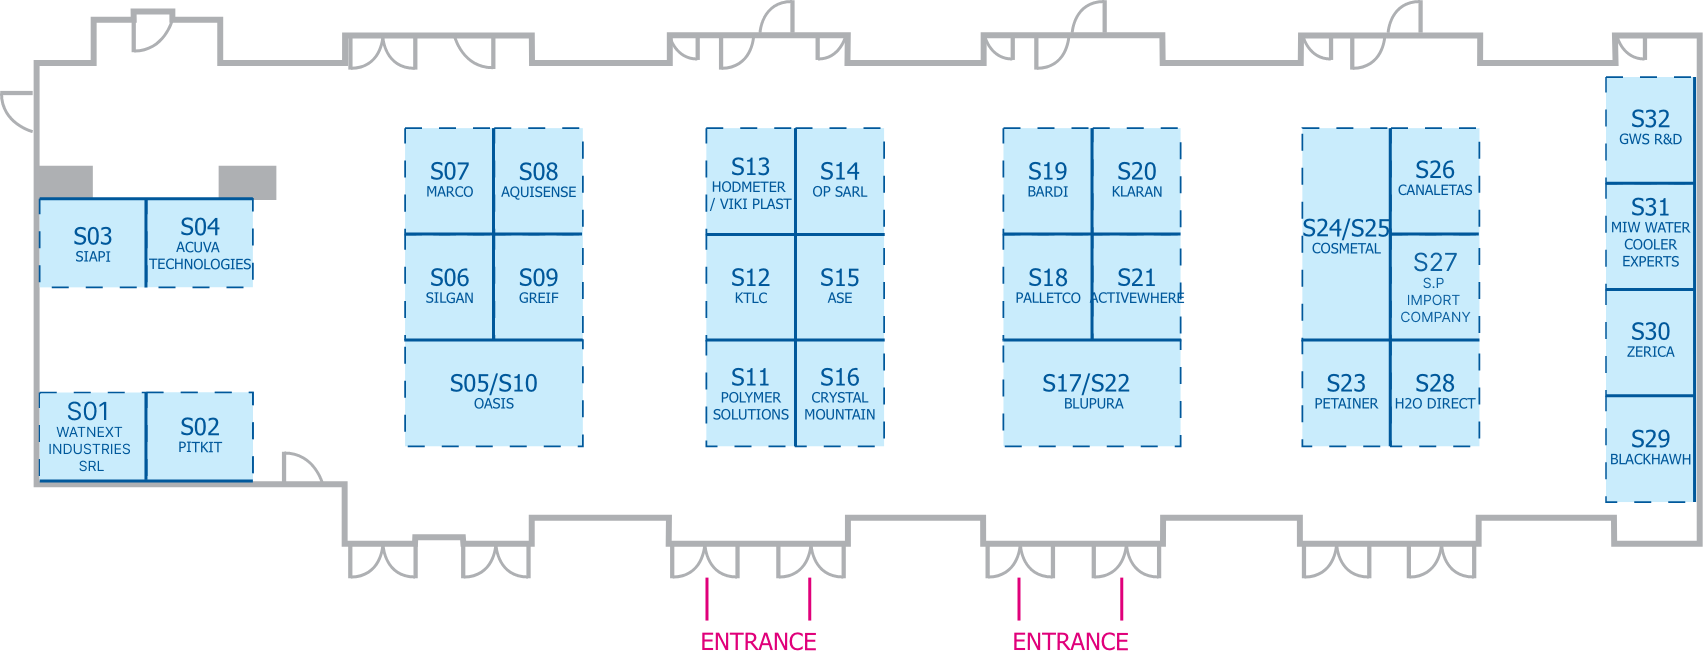
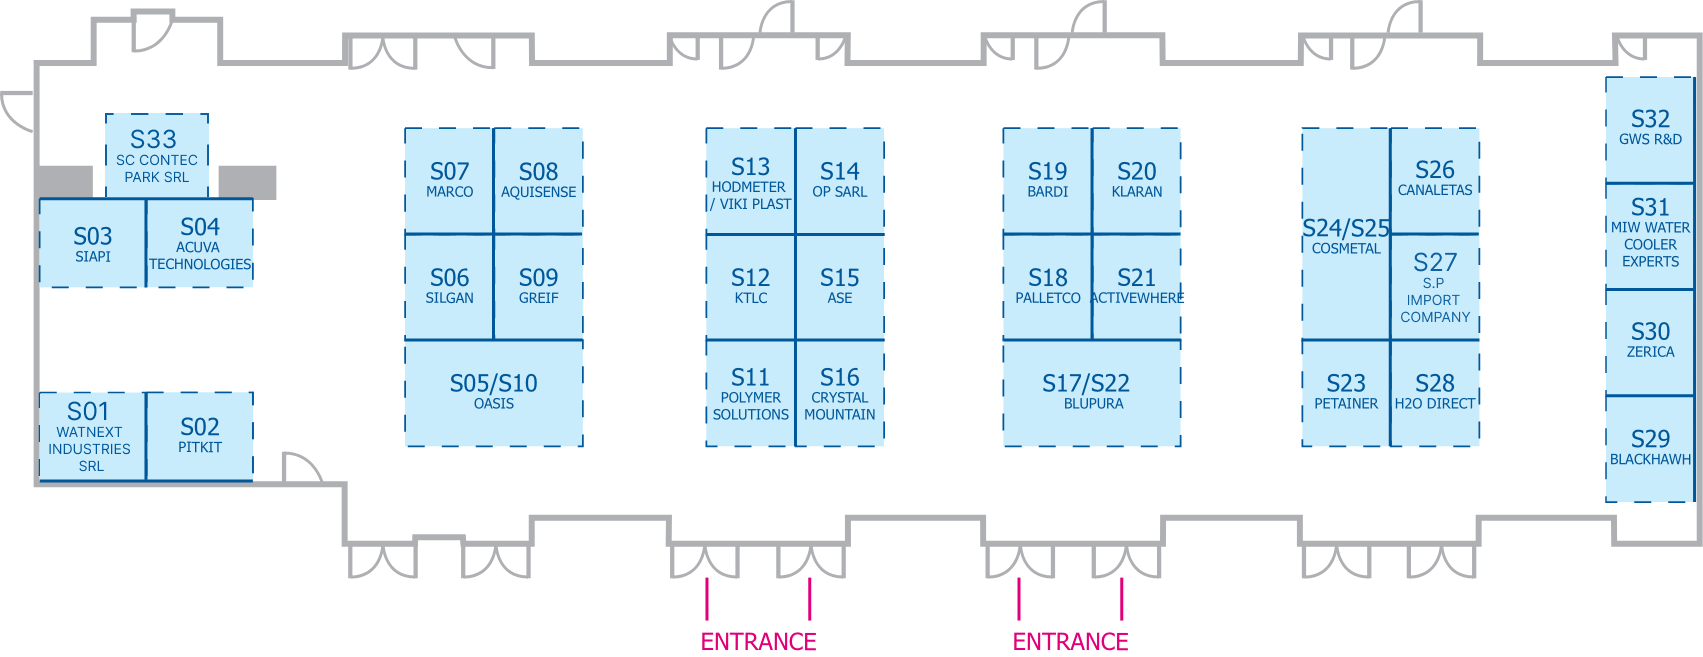
new floor plan

Changed region(s): [[0.0622, 0.1522, 0.1245, 0.3044]]

diff --git a/src/templates/trade-fair.js b/src/templates/trade-fair.js
@@ -1,26 +1,10 @@
 import React from "react";
 import PropTypes from "prop-types";
-import { Link, graphql } from "gatsby";
+import { graphql } from "gatsby";
 import Layout from "../components/Layout";
 import PageTitle from "../components/PageTitle";
-import PreviewCompatibleImage from "../components/PreviewCompatibleImage";
 import PageSubtitle from "../components/PageSubtitle";
 import { StaticImage } from "gatsby-plugin-image";
-
-const floor_plan =
-  [
-    {"nr":21 ,"place" : "S21", "name": "ACTIVEWHERE TECNOLOGIAS DE INFORMAÇÃO LDA"},
-    {"nr":4, "place": "S04", "name":"ACUVA Technologies"},
-    {"nr":8, "place":"S08", "name":"AQUISENSE TECHNOLOGIES"},
-    {"nr":15,"place":"S15", "name":"ASE PACKAGING SOLUTIONS GMBH"},
-    {"nr":19, "place":"S19","name":"BARDI"},
-    {"nr":29, "place":"S29", "name":"BLACKHAWK MOLDING, CO., INC."},
-    {"nr":17, "place":"S17/S22", "name":"BLUPURA SRL"},
-    {"nr":26, "place":"S26", "name":"CANALETAS S.A."},
-    {"nr": 24, "place":"S24/S25","name":"COSMETAL SRL"},
-    {"nr":16, "place":"S16", "name":"CRYSTAL MOUNTAIN"}
-  ]
-;
 
 
 export const TradeFairTemplate = ({ title, tradefair, fees }) => {
@@ -69,6 +53,7 @@ export const TradeFairTemplate = ({ title, tradefair, fees }) => {
             <span className="">S23</span><span>PETAINER</span>
             <span className="">S02</span><span>PITKIT LTD</span>
             <span className="">S11</span><span>POLYMER SOLUTIONS INTERNATIONAL INC.</span>
+            <span>S33</span><span>SC CONTEC PARK SRL</span>
             <span className="">S03</span><span>SIAPI</span>
             <span className="">S06</span><span>SILGAN CLOSURES</span>
             <span className="">S27</span><span>S.P IMPORT COMPANY</span>
@@ -213,8 +198,8 @@ export const TradeFairTemplate = ({ title, tradefair, fees }) => {
                     
  
                   </select>
-                  <svg xmlns="http://www.w3.org/2000/svg" width="16" height="16" fill="currentColor" class="bi bi-arrow-down-short" viewBox="0 0 16 16">
-  <path fill-rule="evenodd" d="M8 4a.5.5 0 0 1 .5.5v5.793l2.146-2.147a.5.5 0 0 1 .708.708l-3 3a.5.5 0 0 1-.708 0l-3-3a.5.5 0 1 1 .708-.708L7.5 10.293V4.5A.5.5 0 0 1 8 4z"/>
+                  <svg xmlns="http://www.w3.org/2000/svg" width="16" height="16" fill="currentColor" className="bi bi-arrow-down-short" viewBox="0 0 16 16">
+  <path fillRule="evenodd" d="M8 4a.5.5 0 0 1 .5.5v5.793l2.146-2.147a.5.5 0 0 1 .708.708l-3 3a.5.5 0 0 1-.708 0l-3-3a.5.5 0 1 1 .708-.708L7.5 10.293V4.5A.5.5 0 0 1 8 4z"/>
 </svg>
                   </div>
                 </label>
@@ -228,8 +213,8 @@ export const TradeFairTemplate = ({ title, tradefair, fees }) => {
 
                     <option disabled value="22,5 m2 table top">22,5 m&sup2; table top</option>
                   </select>
-                  <svg xmlns="http://www.w3.org/2000/svg" width="16" height="16" fill="currentColor" class="bi bi-arrow-down-short" viewBox="0 0 16 16">
-  <path fill-rule="evenodd" d="M8 4a.5.5 0 0 1 .5.5v5.793l2.146-2.147a.5.5 0 0 1 .708.708l-3 3a.5.5 0 0 1-.708 0l-3-3a.5.5 0 1 1 .708-.708L7.5 10.293V4.5A.5.5 0 0 1 8 4z"/>
+                  <svg xmlns="http://www.w3.org/2000/svg" width="16" height="16" fill="currentColor" className="bi bi-arrow-down-short" viewBox="0 0 16 16">
+  <path fillRule="evenodd" d="M8 4a.5.5 0 0 1 .5.5v5.793l2.146-2.147a.5.5 0 0 1 .708.708l-3 3a.5.5 0 0 1-.708 0l-3-3a.5.5 0 1 1 .708-.708L7.5 10.293V4.5A.5.5 0 0 1 8 4z"/>
 </svg>
 </div>
                 </label>
@@ -273,7 +258,7 @@ export const TradeFairTemplate = ({ title, tradefair, fees }) => {
                 <p className="">
                   Please refer any queries concerning the above requirements to
                   the exhibition organiser: 
-                  <a rel="nofollow" href="mailto:office@ideamarketing.pl" className="ml-1">
+                  <a rel="noreferrer" href="mailto:office@ideamarketing.pl" className="ml-1">
                      office@ideamarketing.pl
                   </a>
                 </p>
@@ -281,7 +266,7 @@ export const TradeFairTemplate = ({ title, tradefair, fees }) => {
               <div>
                 <label>
                 <input type="checkbox" name="accept_terms_and_conditions" value="yes" required/>
-                <span className="ml-2">I hereby accept the <a rel="nofollow"  href="/terms-and-conditions"  className="text-pink" target="_blank"  >Exhibition Terms and Conditions</a> <span className="text-red-600">*</span>. </span>
+                <span className="ml-2">I hereby accept the <a  rel="noreferrer"  href="/terms-and-conditions"  className="text-pink" target="_blank"  >Exhibition Terms and Conditions</a> <span className="text-red-600">*</span>. </span>
                 </label>
               </div>
               <button type="submit" className="bg-green hover:bg-greenhover py-4 px-8 text-white mx-auto my-4 block text-2xl">

diff --git a/src/templates/venue-and-accommodation.js b/src/templates/venue-and-accommodation.js
@@ -1,11 +1,9 @@
 import React from "react";
 import PropTypes from "prop-types";
 import { graphql } from "gatsby";
-import { getImage } from "gatsby-plugin-image";
 import Layout from "../components/Layout";
 import PageTitle from "../components/PageTitle";
 import PreviewCompatibleImage from "../components/PreviewCompatibleImage";
-import PageSubtitle from "../components/PageSubtitle";
 
 export const VenueAccommodationTemplate = ({ title, venue, gallery }) => {
 
@@ -57,7 +55,7 @@ export const VenueAccommodationTemplate = ({ title, venue, gallery }) => {
               t: +351 21 312 0000
             </p>
             <a
-              rel="nofollow" 
+               rel="noreferrer" 
               className="my-2 block font-bold hover:text-blue ease-in-out duration-300"
               href="https://www.marriott.com/hotels/travel/lissi-sheraton-lisboa-hotel-and-spa/"
               target="_blank"
@@ -75,7 +73,7 @@ export const VenueAccommodationTemplate = ({ title, venue, gallery }) => {
       </section>
       <section className="bg-blue text-white text-center py-8">
         <div className="container">
-          <h2 className="text-4xl"><a rel="nofollow"  className="hover:underline ease-in-out duration-300"  href="https://www.marriott.com/event-reservations/reservation-link.mi?id=1652979882546&key=GRP&app=resvlink" target="_blank">Book now</a></h2>
+          <h2 className="text-4xl"><a  rel="noreferrer"  className="hover:underline ease-in-out duration-300"  href="https://www.marriott.com/event-reservations/reservation-link.mi?id=1652979882546&key=GRP&app=resvlink" target="_blank">Book now</a></h2>
         </div>
       </section>
      {/*  <section><div className="container">

diff --git a/src/components/Navbar.js b/src/components/Navbar.js
@@ -2,7 +2,6 @@ import React from "react";
 import { Link } from "gatsby";
 import logo from "../img/we-logo.png";
 import phone from "../img/phone.svg";
-import subscribe from "../img/subscribe.svg";
 import MailChimpForm from "../components/MailChimpForm"
 
 const Navbar = class extends React.Component {
@@ -79,7 +78,7 @@ const Navbar = class extends React.Component {
             id="navMenu"
             className={`navbar-menu pb-6  ${this.state.navBarActiveClass}`}
           >
-            <div className={`navbar-close md:hidden`} onKeyPress={() => this.toggleHamburger()}
+            <div role="button" className={`navbar-close md:hidden`} tabIndex={0} onKeyPress={() => this.toggleHamburger()}
                 onClick={() => this.toggleHamburger()}>
                    <span />
                 <span />

diff --git a/src/components/Bannerslider.js b/src/components/Bannerslider.js
@@ -1,4 +1,4 @@
-import React,  { useRef, useState } from "react";
+import React from "react";
 import { Swiper, SwiperSlide } from "swiper/react";
 import { StaticImage } from "gatsby-plugin-image";
 
@@ -6,10 +6,8 @@ import { StaticImage } from "gatsby-plugin-image";
 import 'swiper/css';
 import 'swiper/css/navigation';
 import 'swiper/css/pagination';
-//import "./styles.css";
-
-  // import required modules
-import SwiperCore, { Autoplay, Pagination, Navigation } from "swiper";
+// import required modules
+import  { Autoplay, Pagination, Navigation } from "swiper";
 
 const Bannerslider = () =>{
     return(

diff --git a/src/templates/event-programme-page.js b/src/templates/event-programme-page.js
@@ -1,19 +1,13 @@
 import React from "react";
 import PropTypes from "prop-types";
 import { graphql } from "gatsby";
-import { getImage } from "gatsby-plugin-image";
 import { StaticImage } from "gatsby-plugin-image";
 import Layout from "../components/Layout";
 import PageTitle from "../components/PageTitle";
-import PreviewCompatibleImage from "../components/PreviewCompatibleImage";
 import PageSubtitle from "../components/PageSubtitle";
 import Fee from "../components/Fee"
 export const EventProgrammeTemplate = ({
   title,
-  event,
-  eventList,
-  conference,
-  workshops,
 }) => {
   return (
     <div>

diff --git a/src/pages/contact/index.js b/src/pages/contact/index.js
@@ -306,10 +306,11 @@ export default class Index extends React.Component {
                       <span className="ml-2">
                         I hereby accept the{" "}
                         <a
-                        rel="nofollow" 
+                        rel="noreferrer"
                           href="/private-policy-we.pdf"
                           className="text-pink"
                           target="_blank"
+                         
                         >
                           PRIVACY POLICY
                         </a>{" "}

diff --git a/src/templates/aqua-awards-page.js b/src/templates/aqua-awards-page.js
@@ -1,11 +1,9 @@
 import React from "react";
 import PropTypes from "prop-types";
 import { graphql } from "gatsby";
-import { getImage, StaticImage } from "gatsby-plugin-image";
+import {  StaticImage } from "gatsby-plugin-image";
 import Layout from "../components/Layout";
 import PageTitle from "../components/PageTitle";
-import PreviewCompatibleImage from "../components/PreviewCompatibleImage";
-import PageSubtitle from "../components/PageSubtitle";
 
 export const AquaAwardsTemplate = ({ title, info }) => {
   return (

diff --git a/src/templates/index-page.js b/src/templates/index-page.js
@@ -1,12 +1,7 @@
 import React from "react";
 import PropTypes from "prop-types";
 import { Link, graphql } from "gatsby";
-import { getImage } from "gatsby-plugin-image";
-import { GatsbyImage } from "gatsby-plugin-image";
-
 import Layout from "../components/Layout";
-import Features from "../components/Features";
-import HomeBanner from "../components/HomeBanner";
 import PreviewCompatibleImage from '../components/PreviewCompatibleImage'
 
 // eslint-disable-next-line

diff --git a/src/components/Layout.js b/src/components/Layout.js
@@ -19,7 +19,7 @@ const TemplateWrapper = ({ location, pageName,  children }) => {
     }, 500)
     
   })
-console.log(pageName)
+//console.log(pageName)
 const descriptionPage = pageName ? pageName + " - " + description : description;
   return (
     <div className="h-full grid grid-rows-layout">

diff --git a/src/pages/contact/thanks.js b/src/pages/contact/thanks.js
@@ -2,7 +2,6 @@ import React from "react";
 import Layout from "../../components/Layout";
 import { StaticImage } from "gatsby-plugin-image";
 import { Link } from "gatsby";
-import { Helmet } from "react-helmet";
 
 // eslint-disable-next-line
 export default (props) => {
